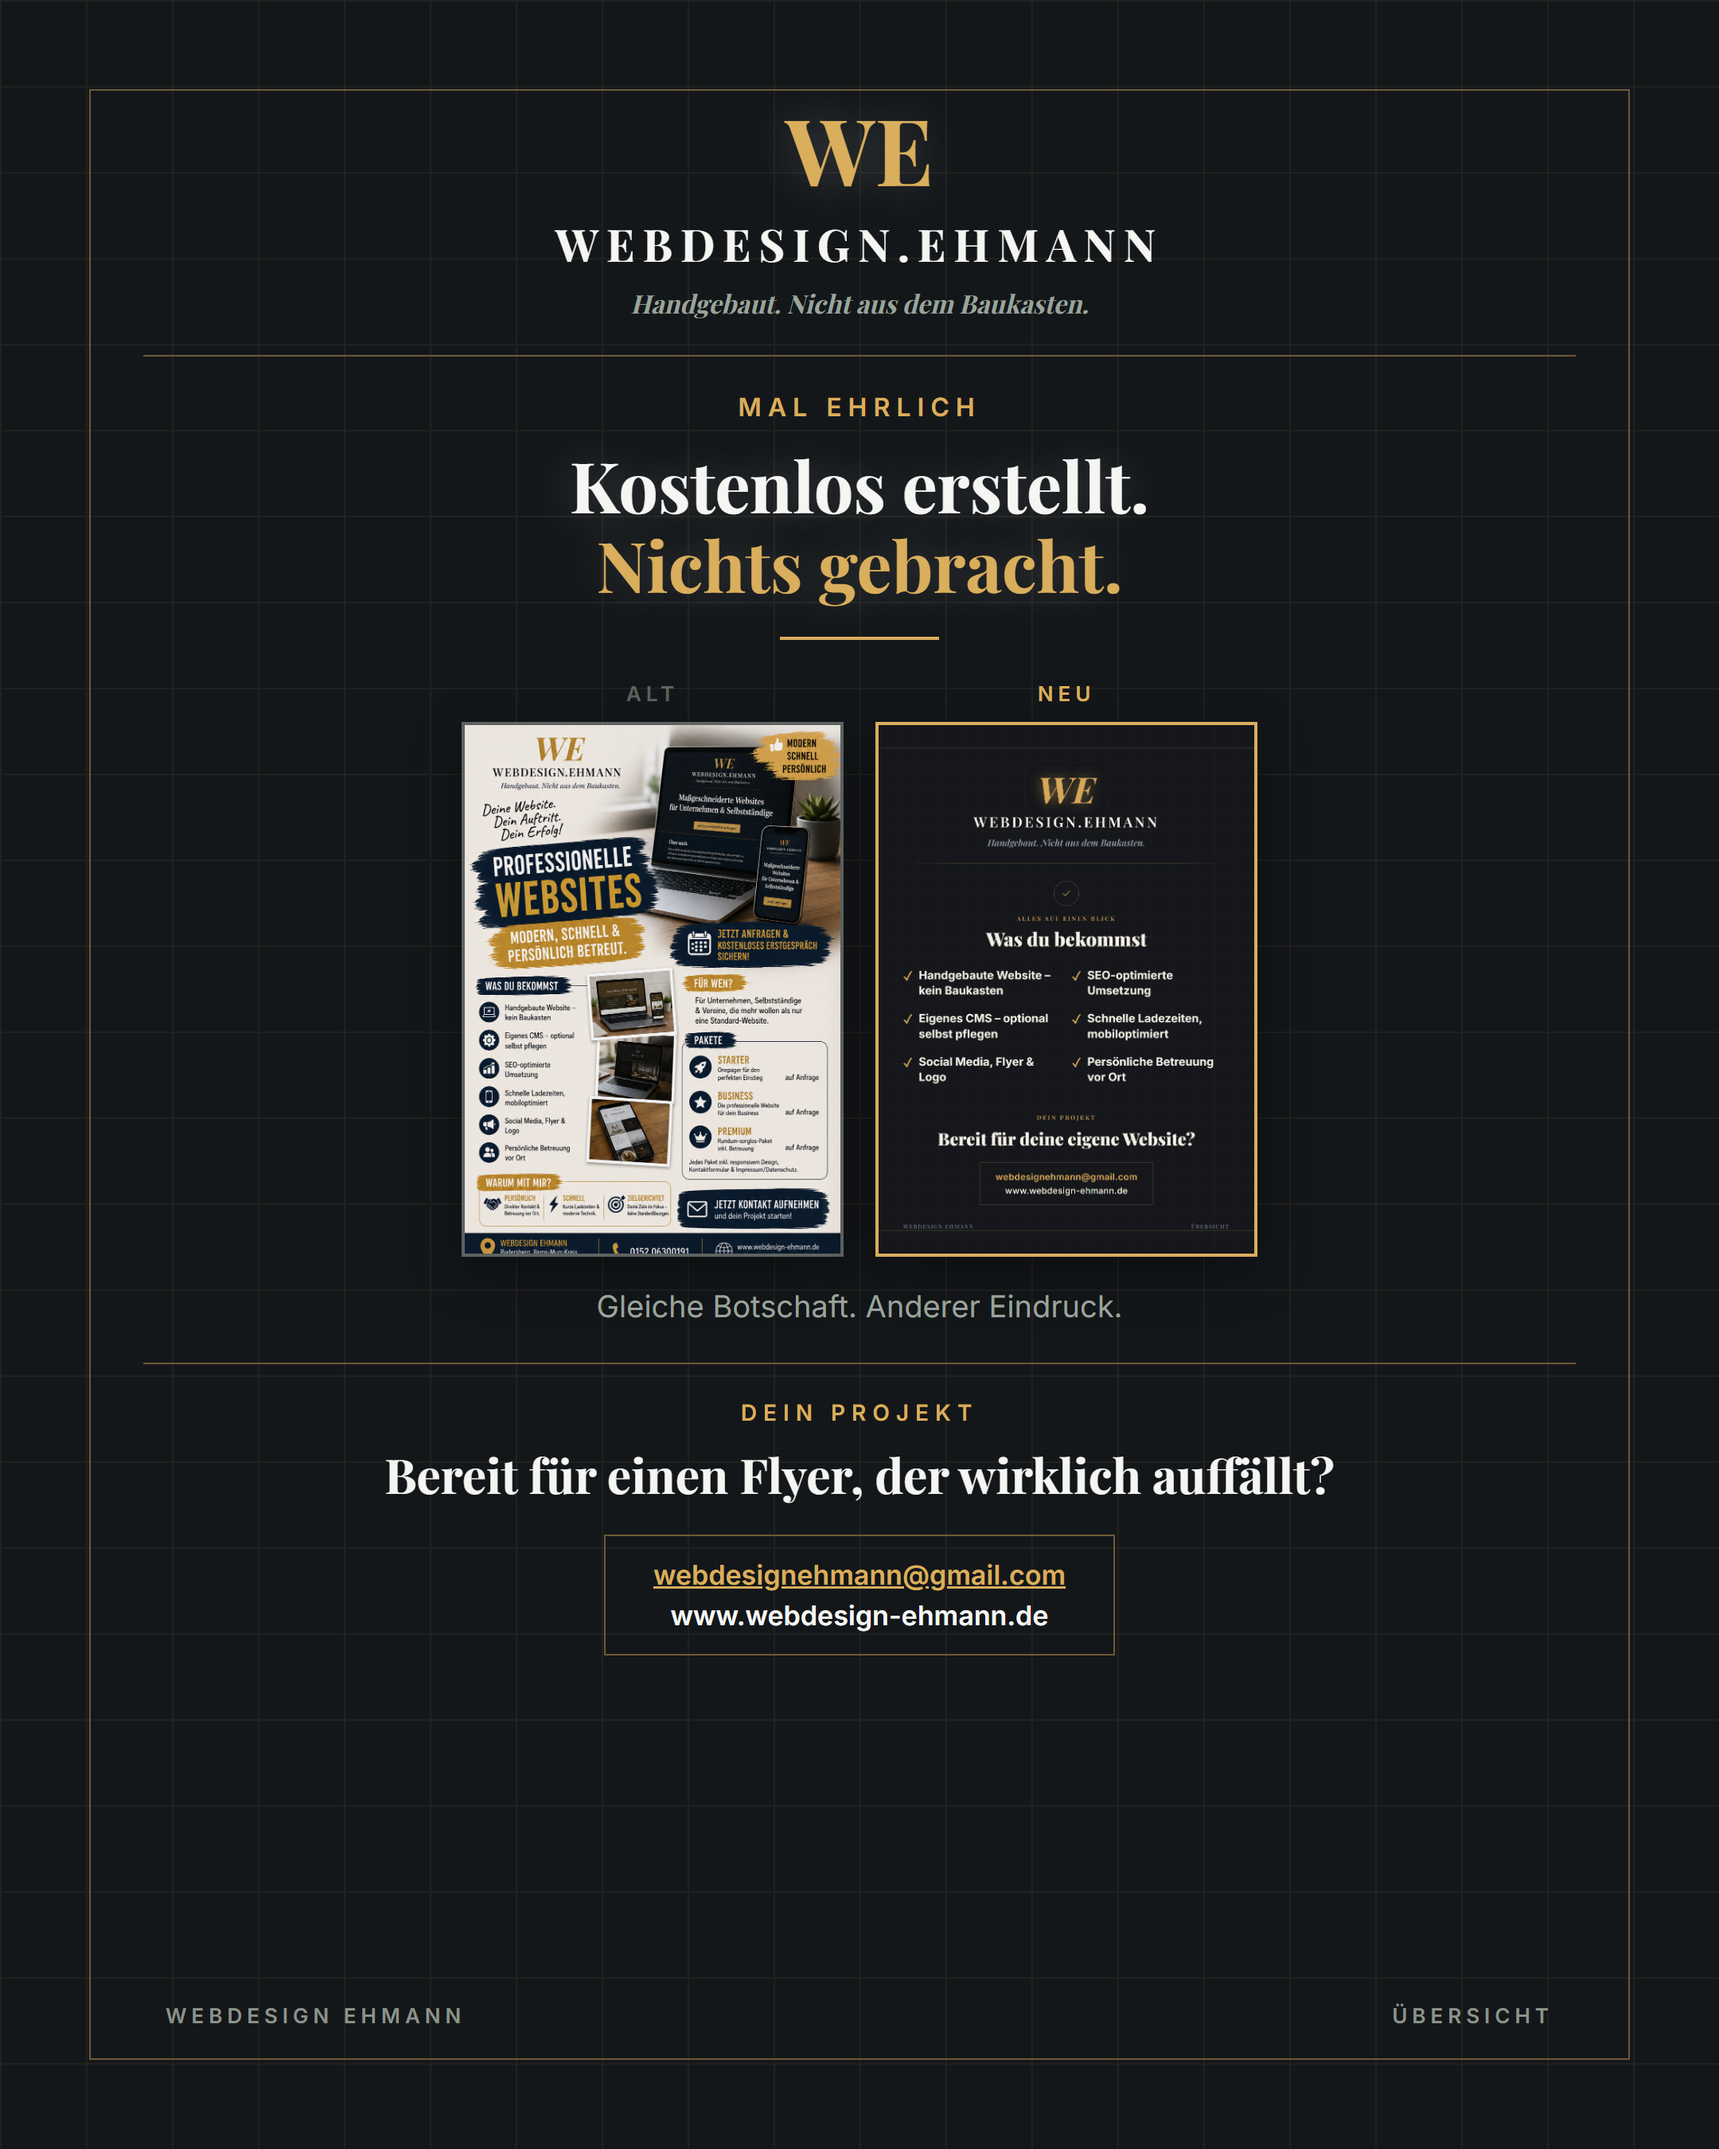
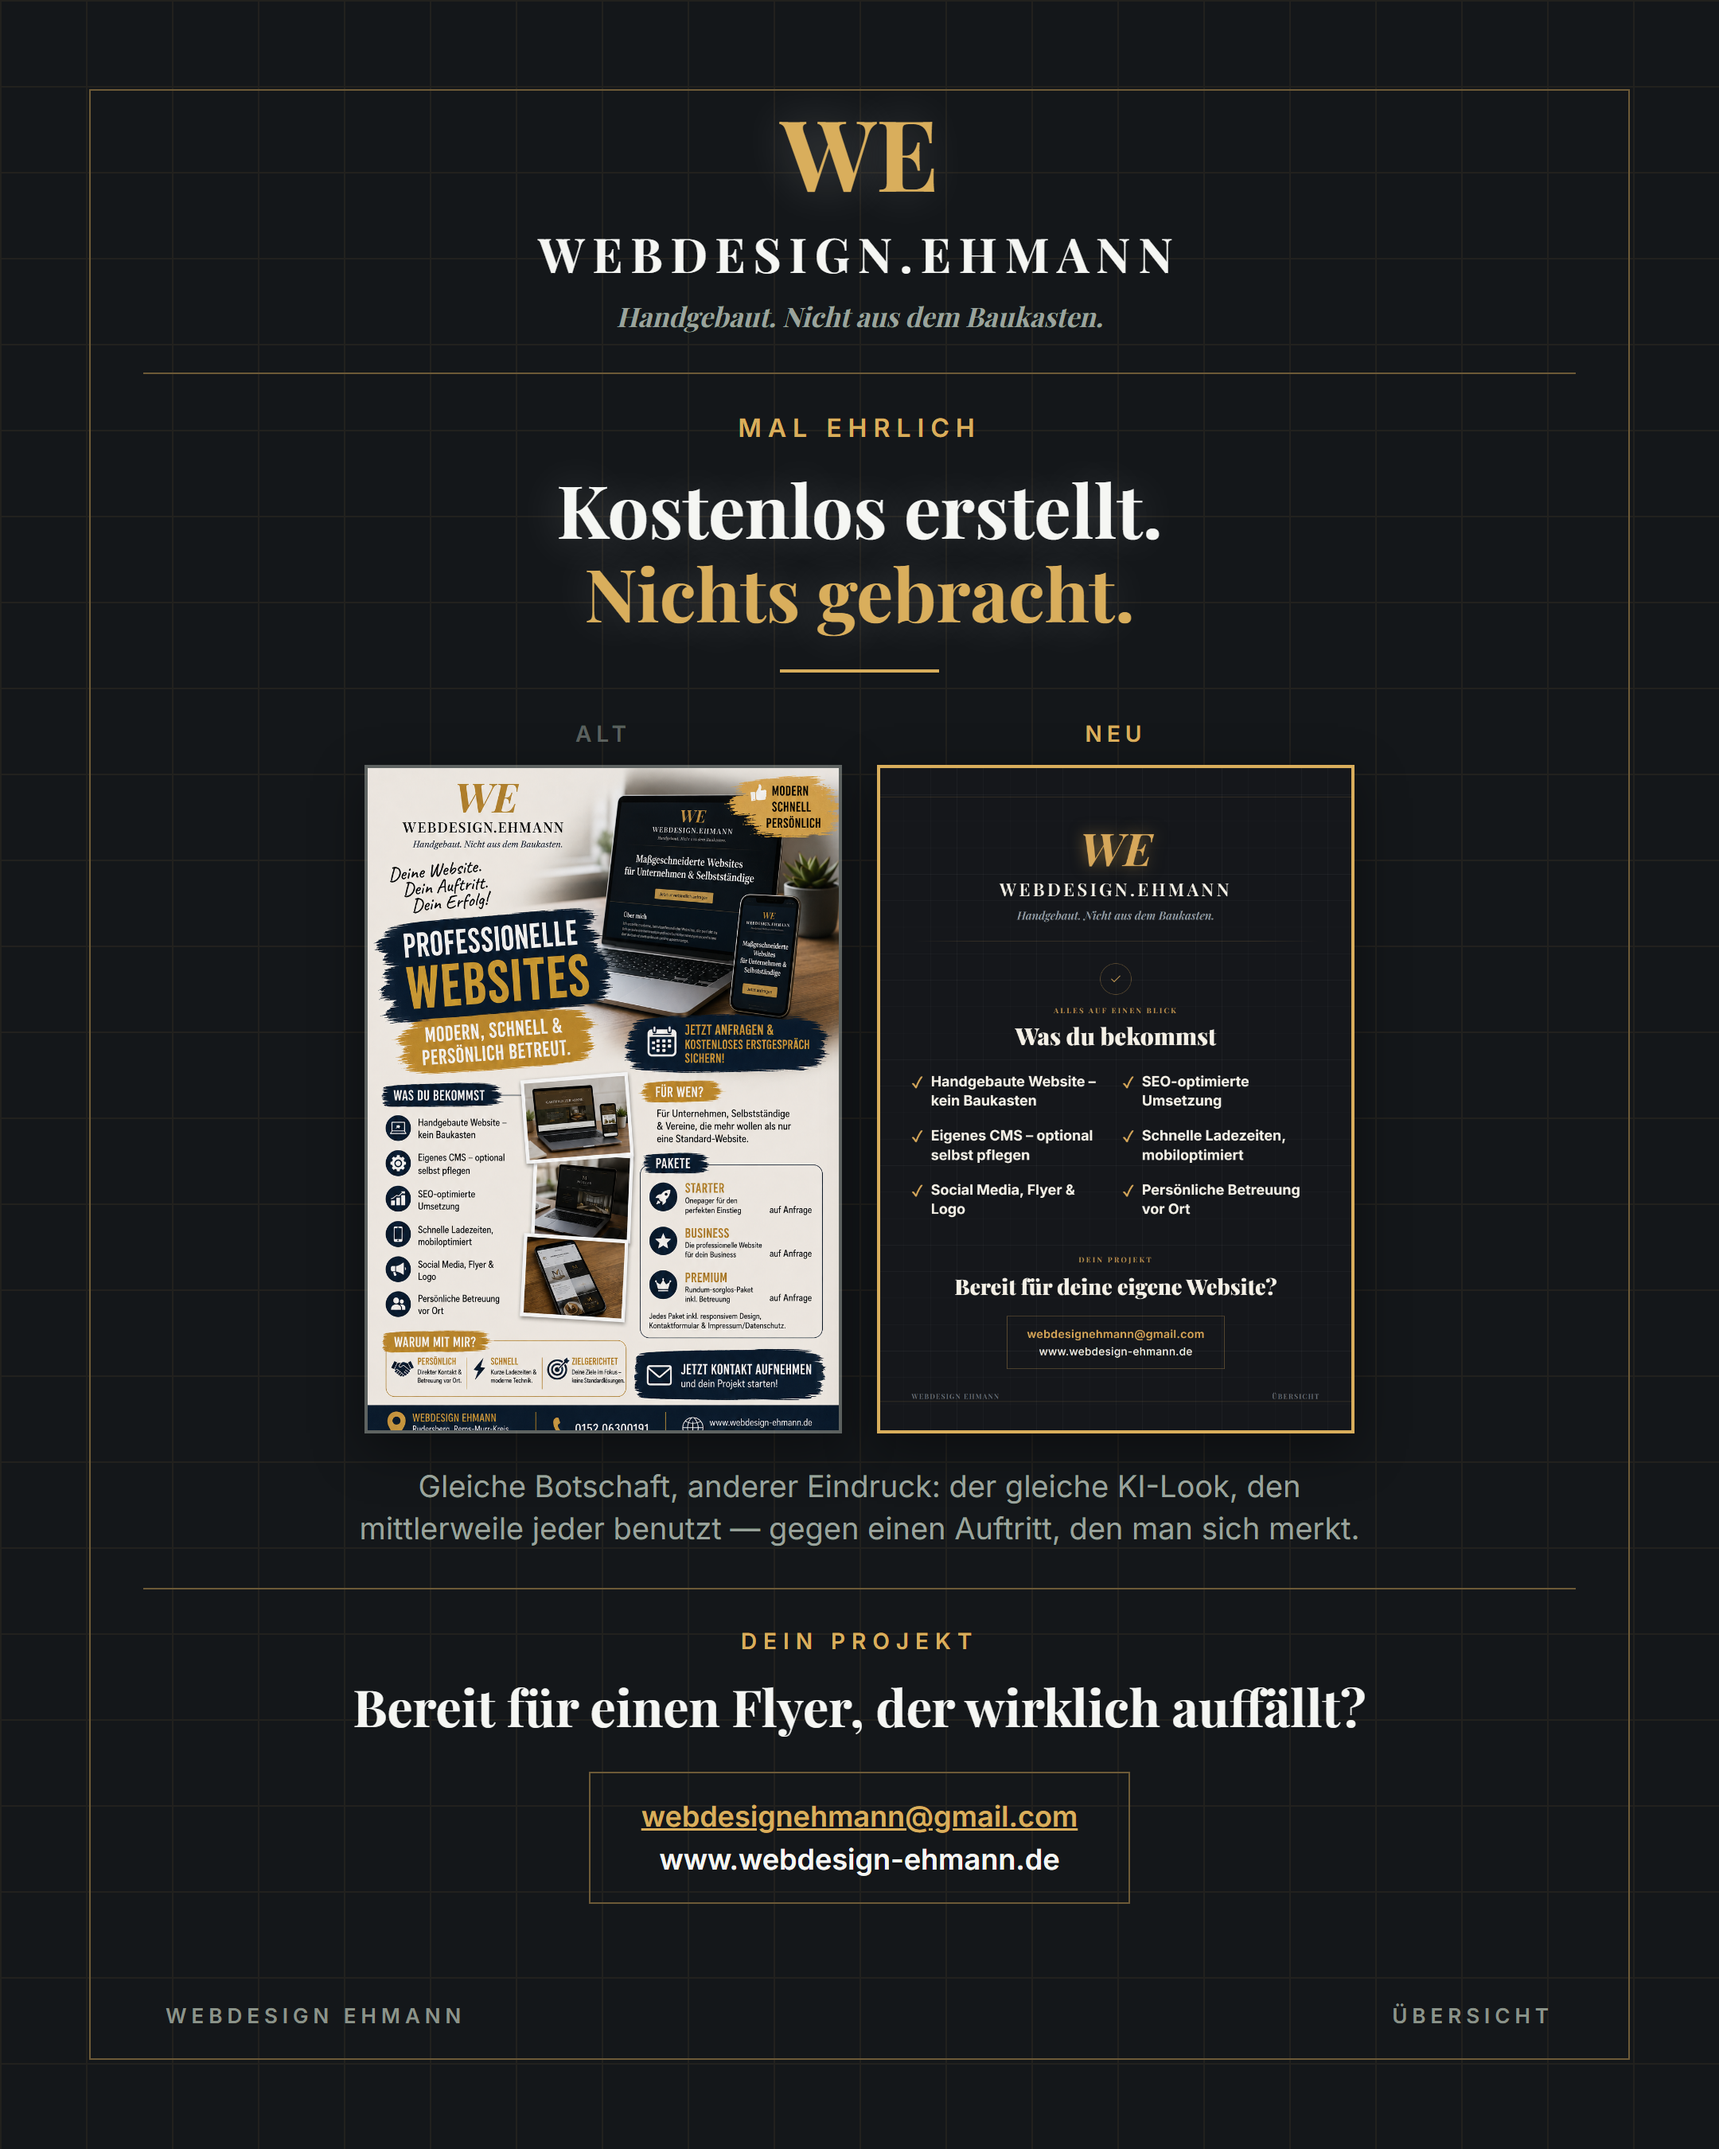
Facebook-Übersicht: Bilder und Typo vergrößert, Leerraum am Fuß gefüllt
Karten zurück auf 300x420, Logo/Headline/Caption etwas größer — nach
dem Overflow-Fix blieb zu viel Platz zwischen Kontaktbox und Footer.

diff --git a/assets/marketing/instagram-posts/_build/overview.js b/assets/marketing/instagram-posts/_build/overview.js
@@ -63,21 +63,21 @@ html, body { width:${WIDTH}px; height:${HEIGHT}px; overflow:hidden; background:$
 }
 .frame { position:absolute; top:56px; left:56px; right:56px; bottom:56px; border:1px solid ${t.border}; }
 .col { position:absolute; left:90px; right:90px; top:64px; display:flex; flex-direction:column; align-items:center; text-align:center; }
-.logo-we { font-family:'Playfair Display',serif; font-weight:700; font-size:58px; color:${t.accent}; text-shadow:0 0 30px ${t.glow}; line-height:1; }
-.logo-name { font-family:'Playfair Display',serif; font-weight:700; font-size:28px; letter-spacing:5px; color:${t.headline}; margin-top:12px; }
-.logo-tag { font-family:'Playfair Display',serif; font-style:italic; font-size:16px; color:${t.subtext}; margin-top:8px; }
-.rule { width:100%; height:1px; background:${t.border}; margin:22px 0; }
+.logo-we { font-family:'Playfair Display',serif; font-weight:700; font-size:62px; color:${t.accent}; text-shadow:0 0 30px ${t.glow}; line-height:1; }
+.logo-name { font-family:'Playfair Display',serif; font-weight:700; font-size:30px; letter-spacing:5px; color:${t.headline}; margin-top:13px; }
+.logo-tag { font-family:'Playfair Display',serif; font-style:italic; font-size:17px; color:${t.subtext}; margin-top:8px; }
+.rule { width:100%; height:1px; background:${t.border}; margin:24px 0; }
 .kicker { font-family:'Inter',sans-serif; font-weight:600; font-size:16px; letter-spacing:4px; text-transform:uppercase; color:${t.kicker}; }
-.headline { font-family:'Playfair Display',serif; font-weight:700; font-size:44px; line-height:1.14; color:${t.headline}; text-shadow:0 0 30px ${t.glow}; margin-top:14px; }
+.headline { font-family:'Playfair Display',serif; font-weight:700; font-size:46px; line-height:1.14; color:${t.headline}; text-shadow:0 0 30px ${t.glow}; margin-top:15px; }
 .headline .accent { color:${t.accent}; }
-.divider { width:100px; height:2px; background:${t.divider}; margin:20px 0; }
-.cards { display:flex; gap:20px; margin-top:6px; }
-.card-label { font-family:'Inter',sans-serif; font-weight:600; font-size:13px; letter-spacing:3px; margin-bottom:10px; }
-.caption { font-family:'Inter',sans-serif; font-weight:400; font-size:19px; line-height:1.4; color:${t.subtext}; max-width:760px; margin-top:18px; }
+.divider { width:100px; height:2px; background:${t.divider}; margin:22px 0; }
+.cards { display:flex; gap:22px; margin-top:8px; }
+.card-label { font-family:'Inter',sans-serif; font-weight:600; font-size:14px; letter-spacing:3px; margin-bottom:11px; }
+.caption { font-family:'Inter',sans-serif; font-weight:400; font-size:19px; line-height:1.4; color:${t.subtext}; max-width:640px; margin-top:20px; }
 .cta-kicker { font-family:'Inter',sans-serif; font-weight:600; font-size:14px; letter-spacing:4px; text-transform:uppercase; color:${t.kicker}; }
-.cta-headline { font-family:'Playfair Display',serif; font-weight:700; font-size:30px; color:${t.headline}; margin-top:10px; max-width:720px; }
-.contact-box { border:1px solid ${t.border}; padding:14px 30px; margin-top:18px; }
-.contact-box a, .contact-box span { display:block; font-family:'Inter',sans-serif; font-weight:600; font-size:17px; text-align:center; }
+.cta-headline { font-family:'Playfair Display',serif; font-weight:700; font-size:32px; color:${t.headline}; margin-top:11px; max-width:720px; }
+.contact-box { border:1px solid ${t.border}; padding:16px 32px; margin-top:20px; }
+.contact-box a, .contact-box span { display:block; font-family:'Inter',sans-serif; font-weight:600; font-size:18px; text-align:center; }
 .contact-email { color:${t.accent}; margin-bottom:5px; }
 .contact-web { color:${t.headline}; font-weight:400; }
 .footer { position:absolute; left:104px; right:104px; bottom:76px; display:flex; justify-content:space-between; font-family:'Inter',sans-serif; font-weight:600; font-size:13px; letter-spacing:3px; text-transform:uppercase; color:${t.footer}; }
@@ -99,14 +99,14 @@ html, body { width:${WIDTH}px; height:${HEIGHT}px; overflow:hidden; background:$
       <div class="cards">
         <div>
           <div class="card-label" style="color:${t.mutedStrong};">ALT</div>
-          ${flyerCard(imgDataUri("compare/alt-flyer.png"), { w: 240, h: 336, borderColor: t.mutedStrong })}
+          ${flyerCard(imgDataUri("compare/alt-flyer.png"), { w: 300, h: 420, borderColor: t.mutedStrong })}
         </div>
         <div>
           <div class="card-label" style="color:${t.accent};">NEU</div>
-          ${flyerCard(imgDataUri("compare/neu-flyer.png"), { w: 240, h: 336, borderColor: t.accent })}
+          ${flyerCard(imgDataUri("compare/neu-flyer.png"), { w: 300, h: 420, borderColor: t.accent })}
         </div>
       </div>
-      <p class="caption">Gleiche Botschaft. Anderer Eindruck.</p>
+      <p class="caption">Gleiche Botschaft, anderer Eindruck: der gleiche KI-Look, den mittlerweile jeder benutzt — gegen einen Auftritt, den man sich merkt.</p>
 
       <div class="rule"></div>
       <div class="cta-kicker">DEIN PROJEKT</div>
